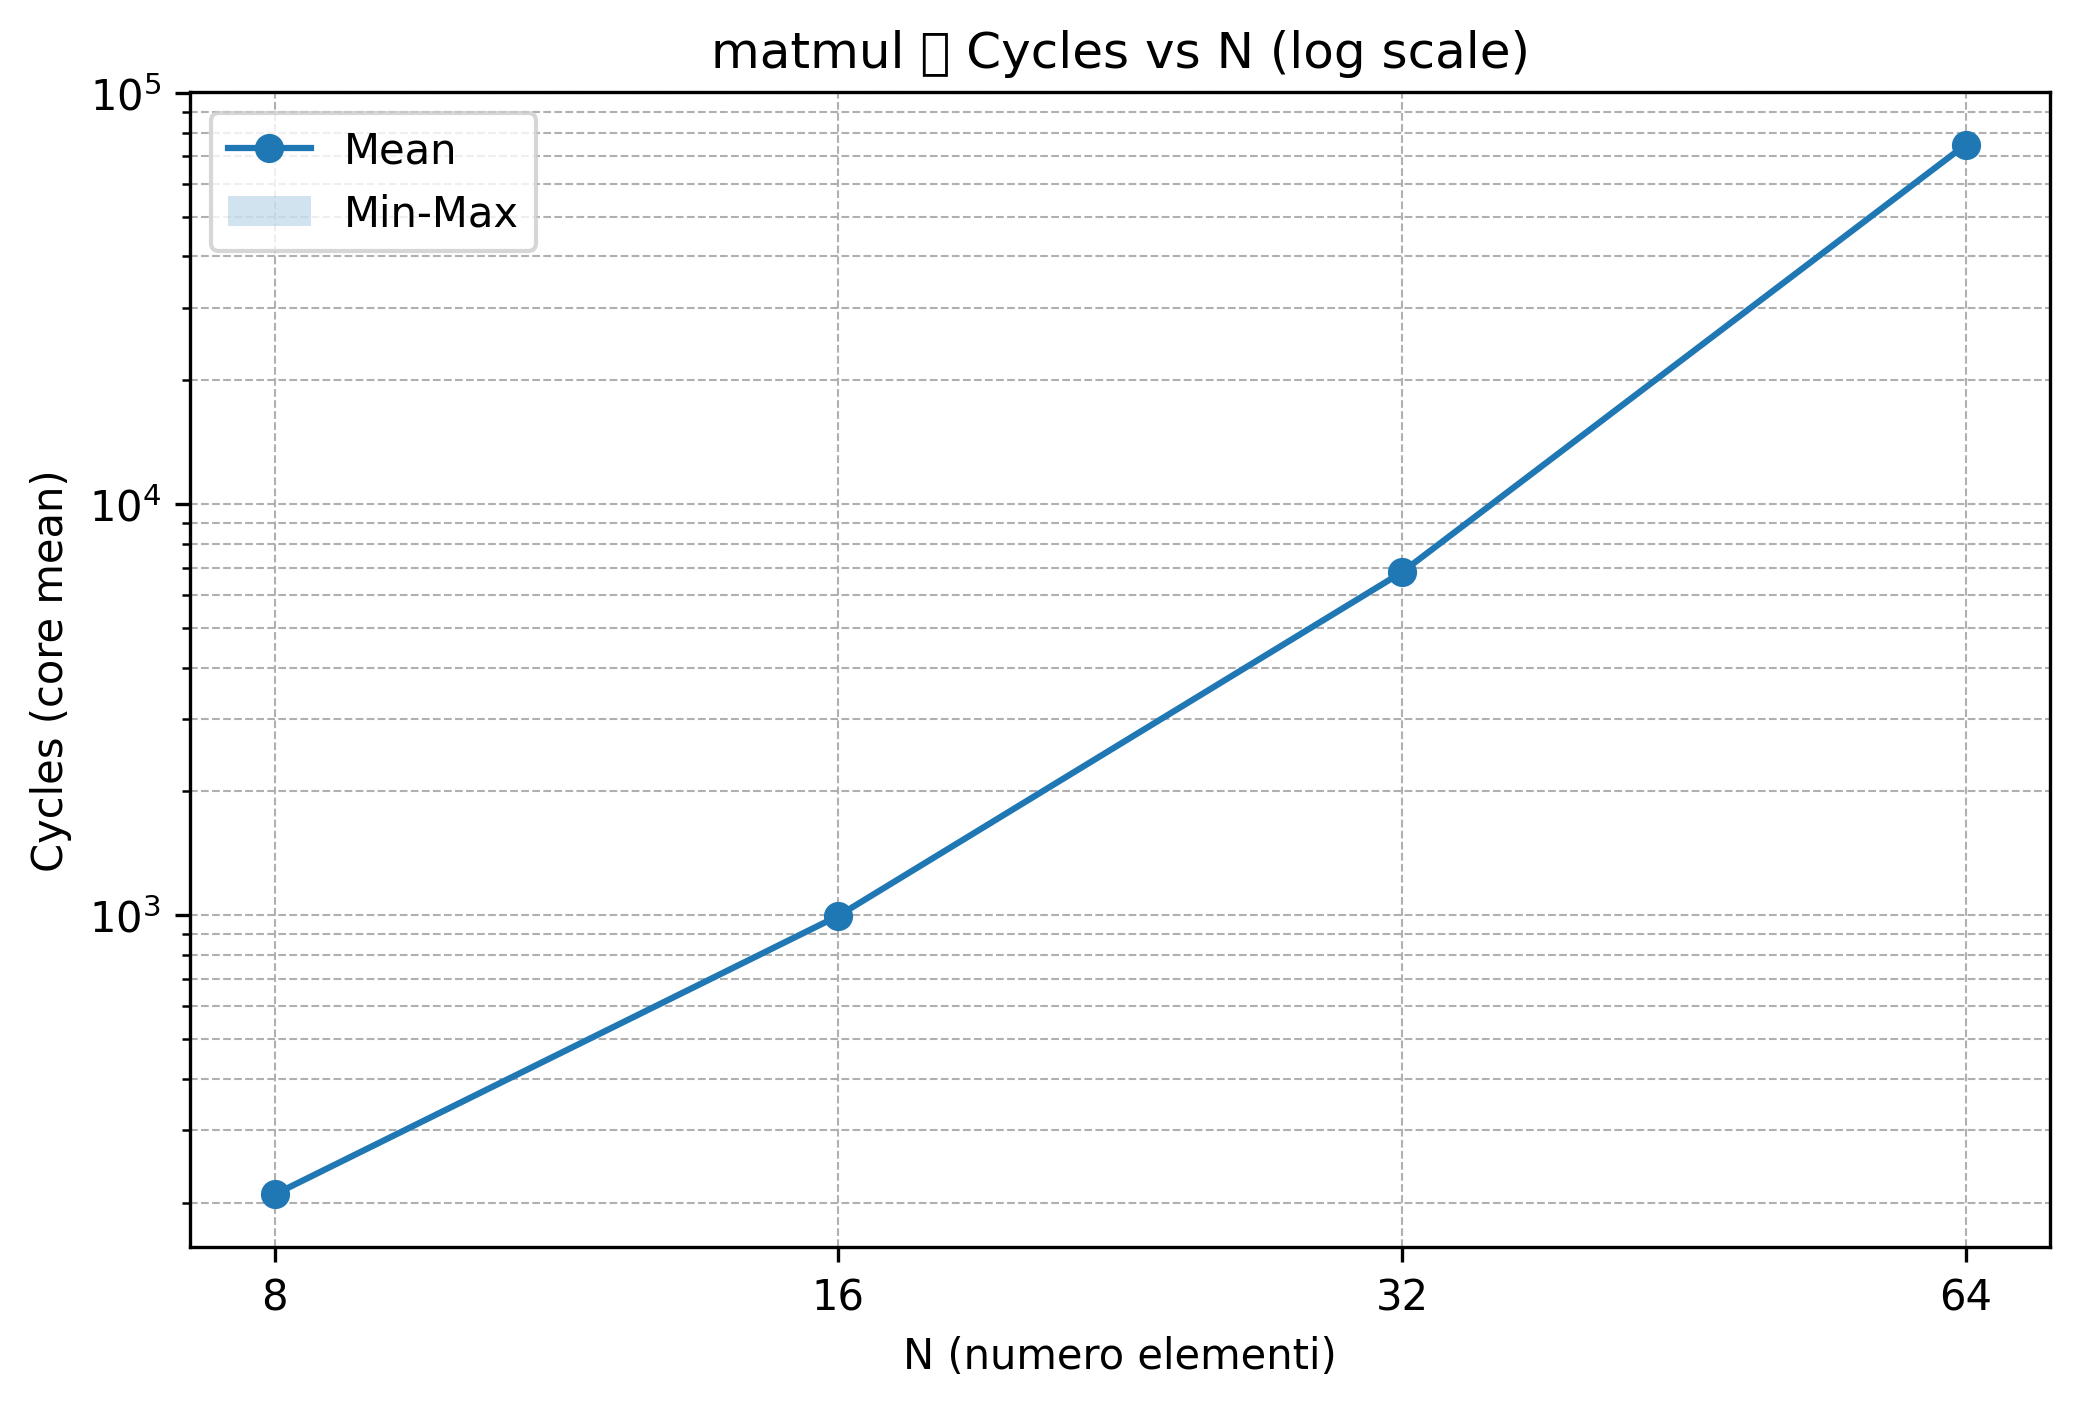
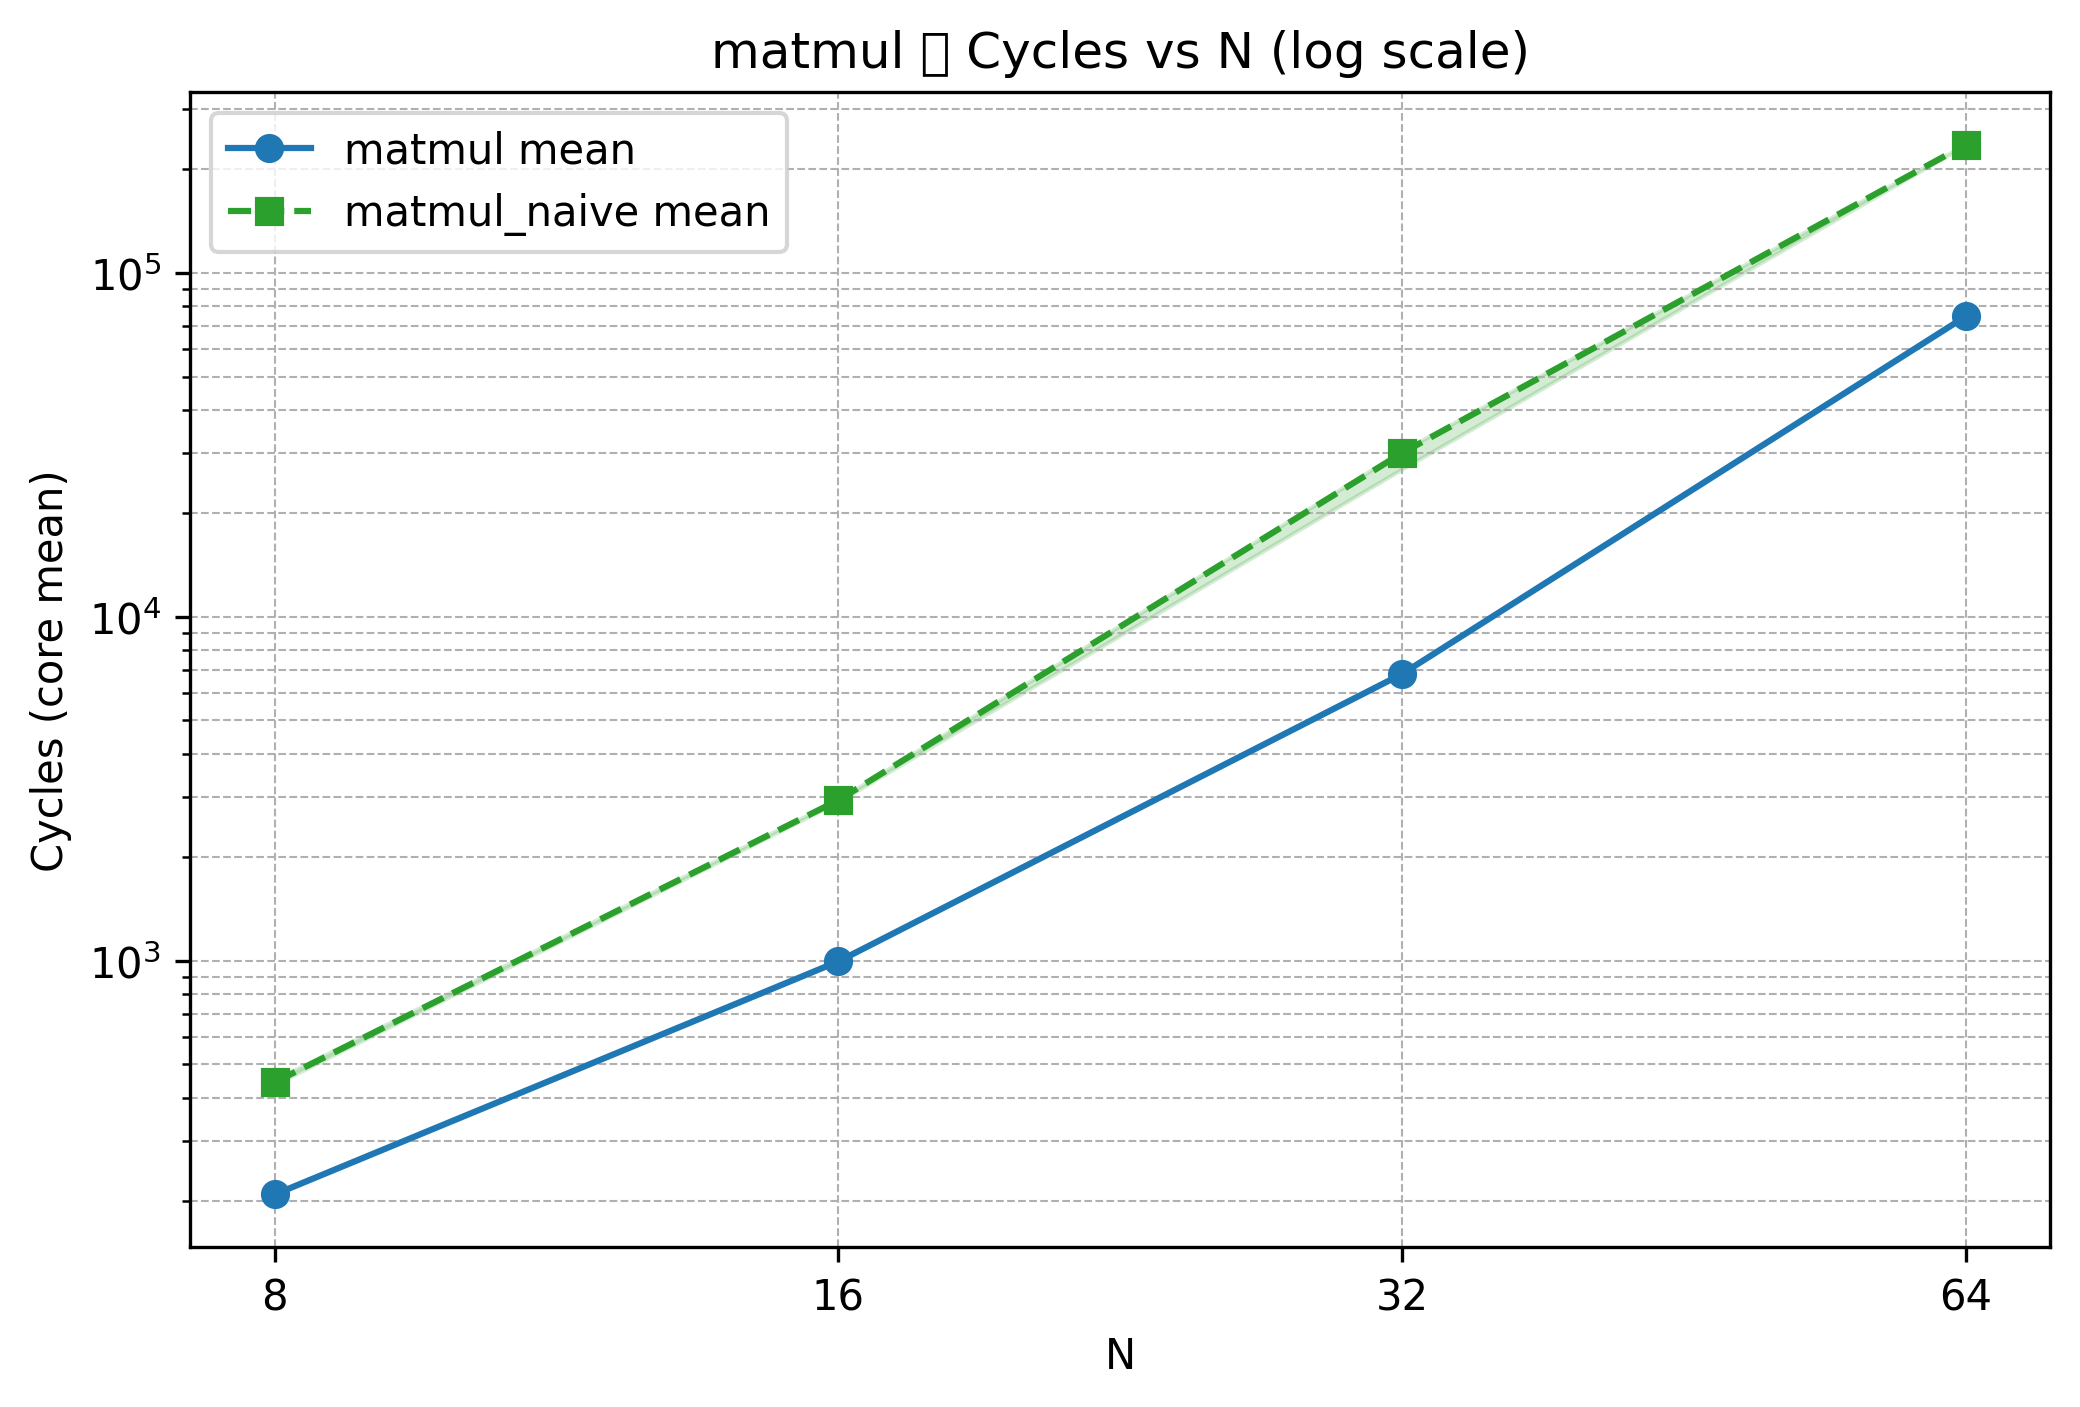
Updated results

diff --git a/sw/benchmarks/plot_benchmarks.py b/sw/benchmarks/plot_benchmarks.py
@@ -41,8 +41,8 @@ with open(csv_file, newline="") as f:
         if cycles == 0.0 or flops_alg == 0.0 or flops_sust == 0.0:
             continue
 
-        elements = row["elements"]
-        data[elements].append({
+        N = row["elements"]
+        data[N].append({
             "cycles": cycles,
             "flops_alg": flops_alg,
             "flops_sust": flops_sust,
@@ -51,7 +51,7 @@ with open(csv_file, newline="") as f:
 sorted_N = sorted(data.keys(), key=lambda x: float(x))
 
 # ============================
-# LEGGI CSV (naive, se esiste)
+# LEGGI CSV (naive)
 # ============================
 data_naive = defaultdict(list)
 
@@ -59,68 +59,159 @@ if has_naive:
     with open(naive_csv, newline="") as f:
         reader = csv.DictReader(f)
         for row in reader:
+            cycles = float(row["cycles"])
             flops_alg = float(row["flops_alg_per_cycle"])
-            if flops_alg == 0.0:
+
+            if cycles == 0.0 or flops_alg == 0.0:
                 continue
-            elements = row["elements"]
-            data_naive[elements].append(flops_alg)
+
+            N = row["elements"]
+            data_naive[N].append({
+                "cycles": cycles,
+                "flops_alg": flops_alg,
+            })
 
 # ============================
-# UTILITY: media per N
+# UTILITY
 # ============================
 def mean_dict(data_dict, key):
-    out = {}
-    for N in data_dict:
-        out[N] = np.mean([p[key] for p in data_dict[N]])
-    return out
+    return {
+        N: np.mean([p[key] for p in data_dict[N]])
+        for N in data_dict
+    }
 
 mean_flops_alg = mean_dict(data, "flops_alg")
-mean_flops_sust = mean_dict(data, "flops_sust")
 mean_cycles = mean_dict(data, "cycles")
 
-mean_flops_naive = {N: np.mean(vals) for N, vals in data_naive.items()} if has_naive else None
+mean_flops_naive = (
+    mean_dict(data_naive, "flops_alg") if has_naive else {}
+)
+mean_cycles_naive = (
+    mean_dict(data_naive, "cycles") if has_naive else {}
+)
 
 # ============================
-# PLOT COMBINATO FLOPs_alg + speedup
+# PLOT 1: Cycles vs N (log, mean + minmax)
+# ============================
+plt.figure(figsize=(8,5))
+
+# --- kernel ottimizzato ---
+cycles_mean = []
+cycles_min = []
+cycles_max = []
+
+for N in sorted_N:
+    vals = [p["cycles"] for p in data[N]]
+    cycles_mean.append(np.mean(vals))
+    cycles_min.append(np.min(vals))
+    cycles_max.append(np.max(vals))
+
+plt.plot(sorted_N, cycles_mean, "o-", label=f"{kernel_name} mean")
+plt.fill_between(
+    sorted_N, cycles_min, cycles_max,
+    alpha=0.2
+)
+
+# --- kernel naive ---
+if has_naive:
+    common_N_cycles = [N for N in sorted_N if N in data_naive]
+
+    naive_mean = []
+    naive_min = []
+    naive_max = []
+
+    for N in common_N_cycles:
+        vals = [p["cycles"] for p in data_naive[N]]
+        naive_mean.append(np.mean(vals))
+        naive_min.append(np.min(vals))
+        naive_max.append(np.max(vals))
+
+    plt.plot(
+        common_N_cycles,
+        naive_mean,
+        "s--",
+        color="tab:green",
+        label=f"{naive_kernel} mean"
+    )
+    plt.fill_between(
+        common_N_cycles,
+        naive_min,
+        naive_max,
+        alpha=0.2,
+        color="tab:green"
+    )
+
+plt.xlabel("N")
+plt.ylabel("Cycles (core mean)")
+plt.title(f"{kernel_name}  Cycles vs N (log scale)")
+plt.yscale("log")
+plt.grid(True, which="both", ls="--", lw=0.5)
+plt.legend()
+
+plt.savefig(
+    os.path.join(kernel_dir, f"{kernel_name}_cycles_vs_N_log.png"),
+    dpi=300,
+    bbox_inches="tight"
+)
+plt.close()
+
+# ============================
+# PLOT 2: FLOPs_alg + naive + speedup
 # ============================
 fig, ax1 = plt.subplots(figsize=(8,5))
 
 # FLOPs kernel ottimizzato
-ax1.plot(sorted_N, [mean_flops_alg[N] for N in sorted_N], "o-", label=kernel_name)
-ax1.set_xlabel("N")
-ax1.set_ylabel("FLOPs_alg / cycle ", color="tab:blue")
-ax1.tick_params(axis='y', labelcolor="tab:blue")
-ax1.grid(True, which="both", ls="--", lw=0.5)
+ax1.plot(
+    sorted_N,
+    [mean_flops_alg[N] for N in sorted_N],
+    "o-",
+    label=kernel_name
+)
 
 # FLOPs naive
-if has_naive:
-    ax1.plot(sorted_N, [mean_flops_naive[N] for N in sorted_N], "s--", color="tab:green", label=naive_kernel)
+common_N = [N for N in sorted_N if N in mean_flops_naive]
 
-# Speedup asse y secondario
-if has_naive:
+if has_naive and common_N:
+    ax1.plot(
+        common_N,
+        [mean_flops_naive[N] for N in common_N],
+        "s--",
+        color="tab:green",
+        label=naive_kernel
+    )
+
+ax1.set_xlabel("N")
+ax1.set_ylabel("FLOPs_alg / cycle")
+ax1.grid(True, which="both", ls="--", lw=0.5)
+
+# Speedup
+if has_naive and common_N:
     ax2 = ax1.twinx()
-    speedup = []
-    for N in sorted_N:
-        if N in mean_flops_naive and mean_flops_naive[N] > 0:
-            speedup.append(mean_flops_alg[N] / mean_flops_naive[N])
-        else:
-            speedup.append(np.nan)
+    speedup = [
+        mean_flops_alg[N] / mean_flops_naive[N]
+        for N in common_N
+    ]
 
-    ax2.plot(sorted_N, speedup, "r-o", label="Speedup vs naive")  # linea rossa continua con cerchi
-    ax2.set_ylabel("Speedup vs naive", color="tab:red")
-    ax2.tick_params(axis='y', labelcolor="tab:red")
+    ax2.plot(
+        common_N,
+        speedup,
+        "r-o",
+        label="Speedup vs naive"
+    )
+    ax2.set_ylabel("Speedup vs naive")
 
-# Titolo e legenda combinata
-lines_1, labels_1 = ax1.get_legend_handles_labels()
-if has_naive:
-    lines_2, labels_2 = ax2.get_legend_handles_labels()
-    ax1.legend(lines_1 + lines_2, labels_1 + labels_2)
+    l1, lab1 = ax1.get_legend_handles_labels()
+    l2, lab2 = ax2.get_legend_handles_labels()
+    ax1.legend(l1 + l2, lab1 + lab2)
 else:
     ax1.legend()
 
 plt.title(f"{kernel_name} vs {naive_kernel}")
-plt.savefig(os.path.join(kernel_dir, f"{kernel_name}_flops_alg_and_speedup_dual.png"),
-            dpi=300, bbox_inches="tight")
+plt.savefig(
+    os.path.join(kernel_dir, f"{kernel_name}_flops_alg_and_speedup_dual.png"),
+    dpi=300,
+    bbox_inches="tight"
+)
 plt.close()
 
-print(f"Plot FLOPs_alg/cycle + speedup con due scale generato nella cartella: {kernel_dir}")
+print(f"Tutti i plot generati in: {kernel_dir}")
